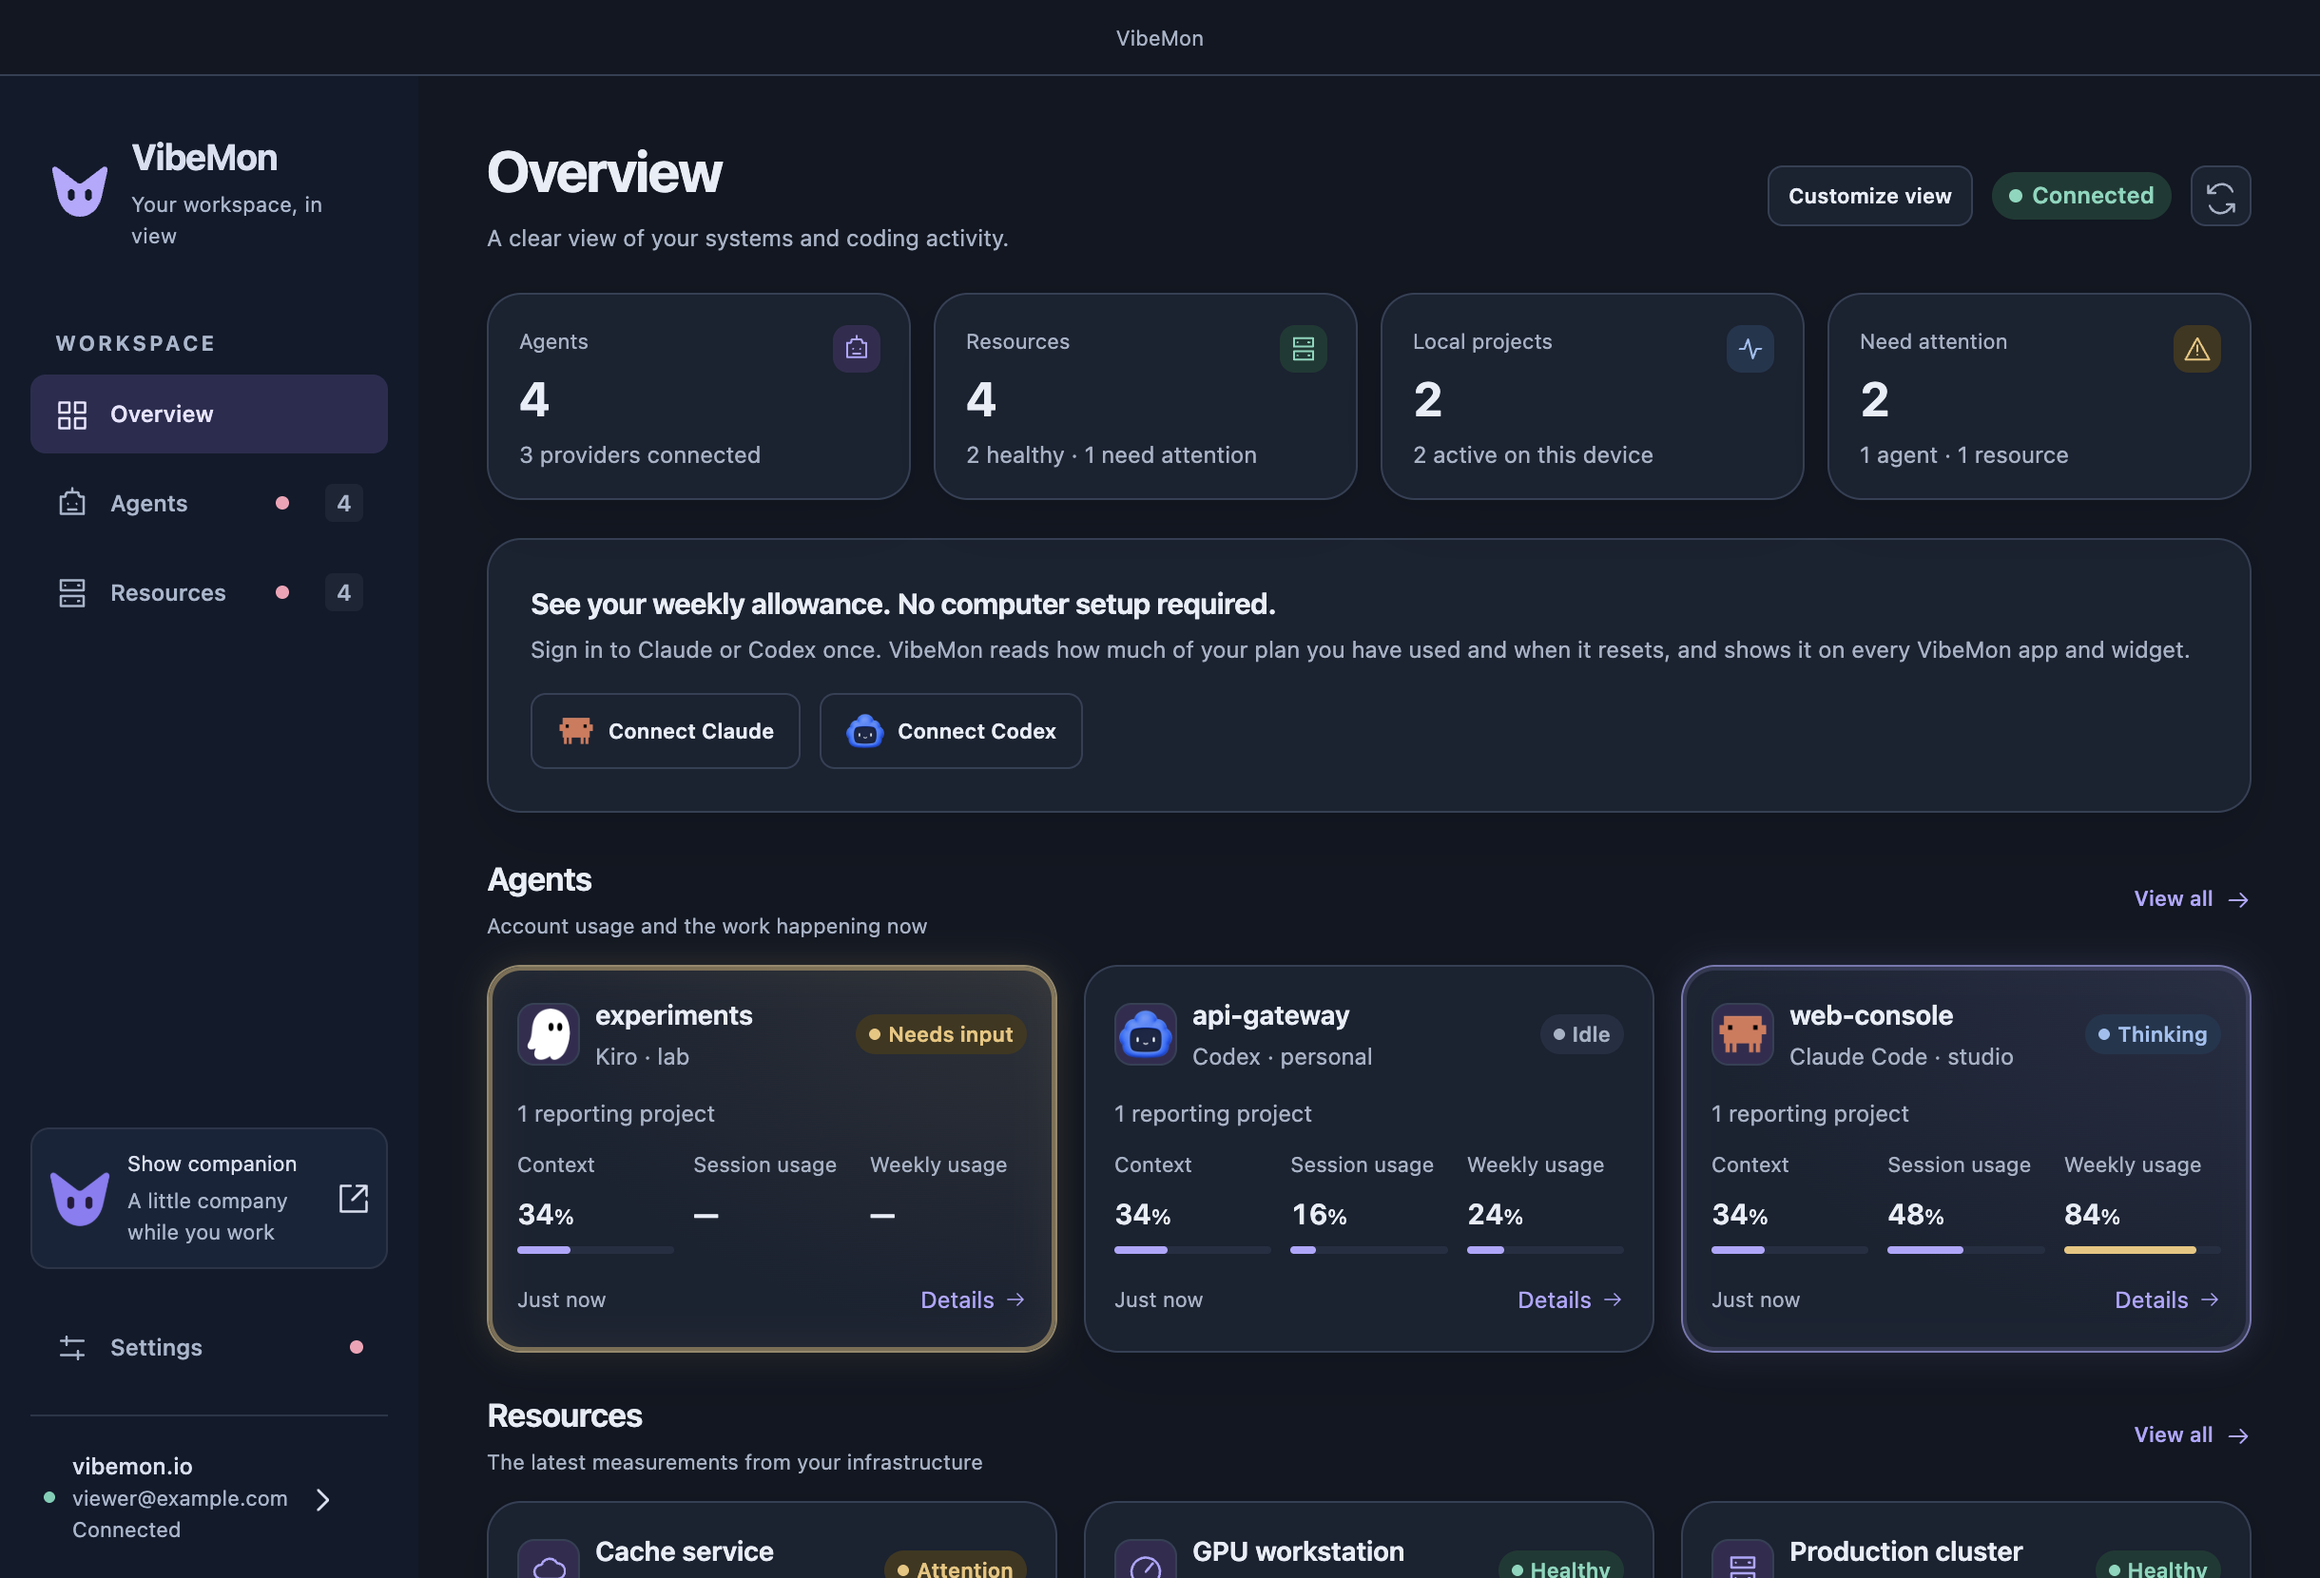
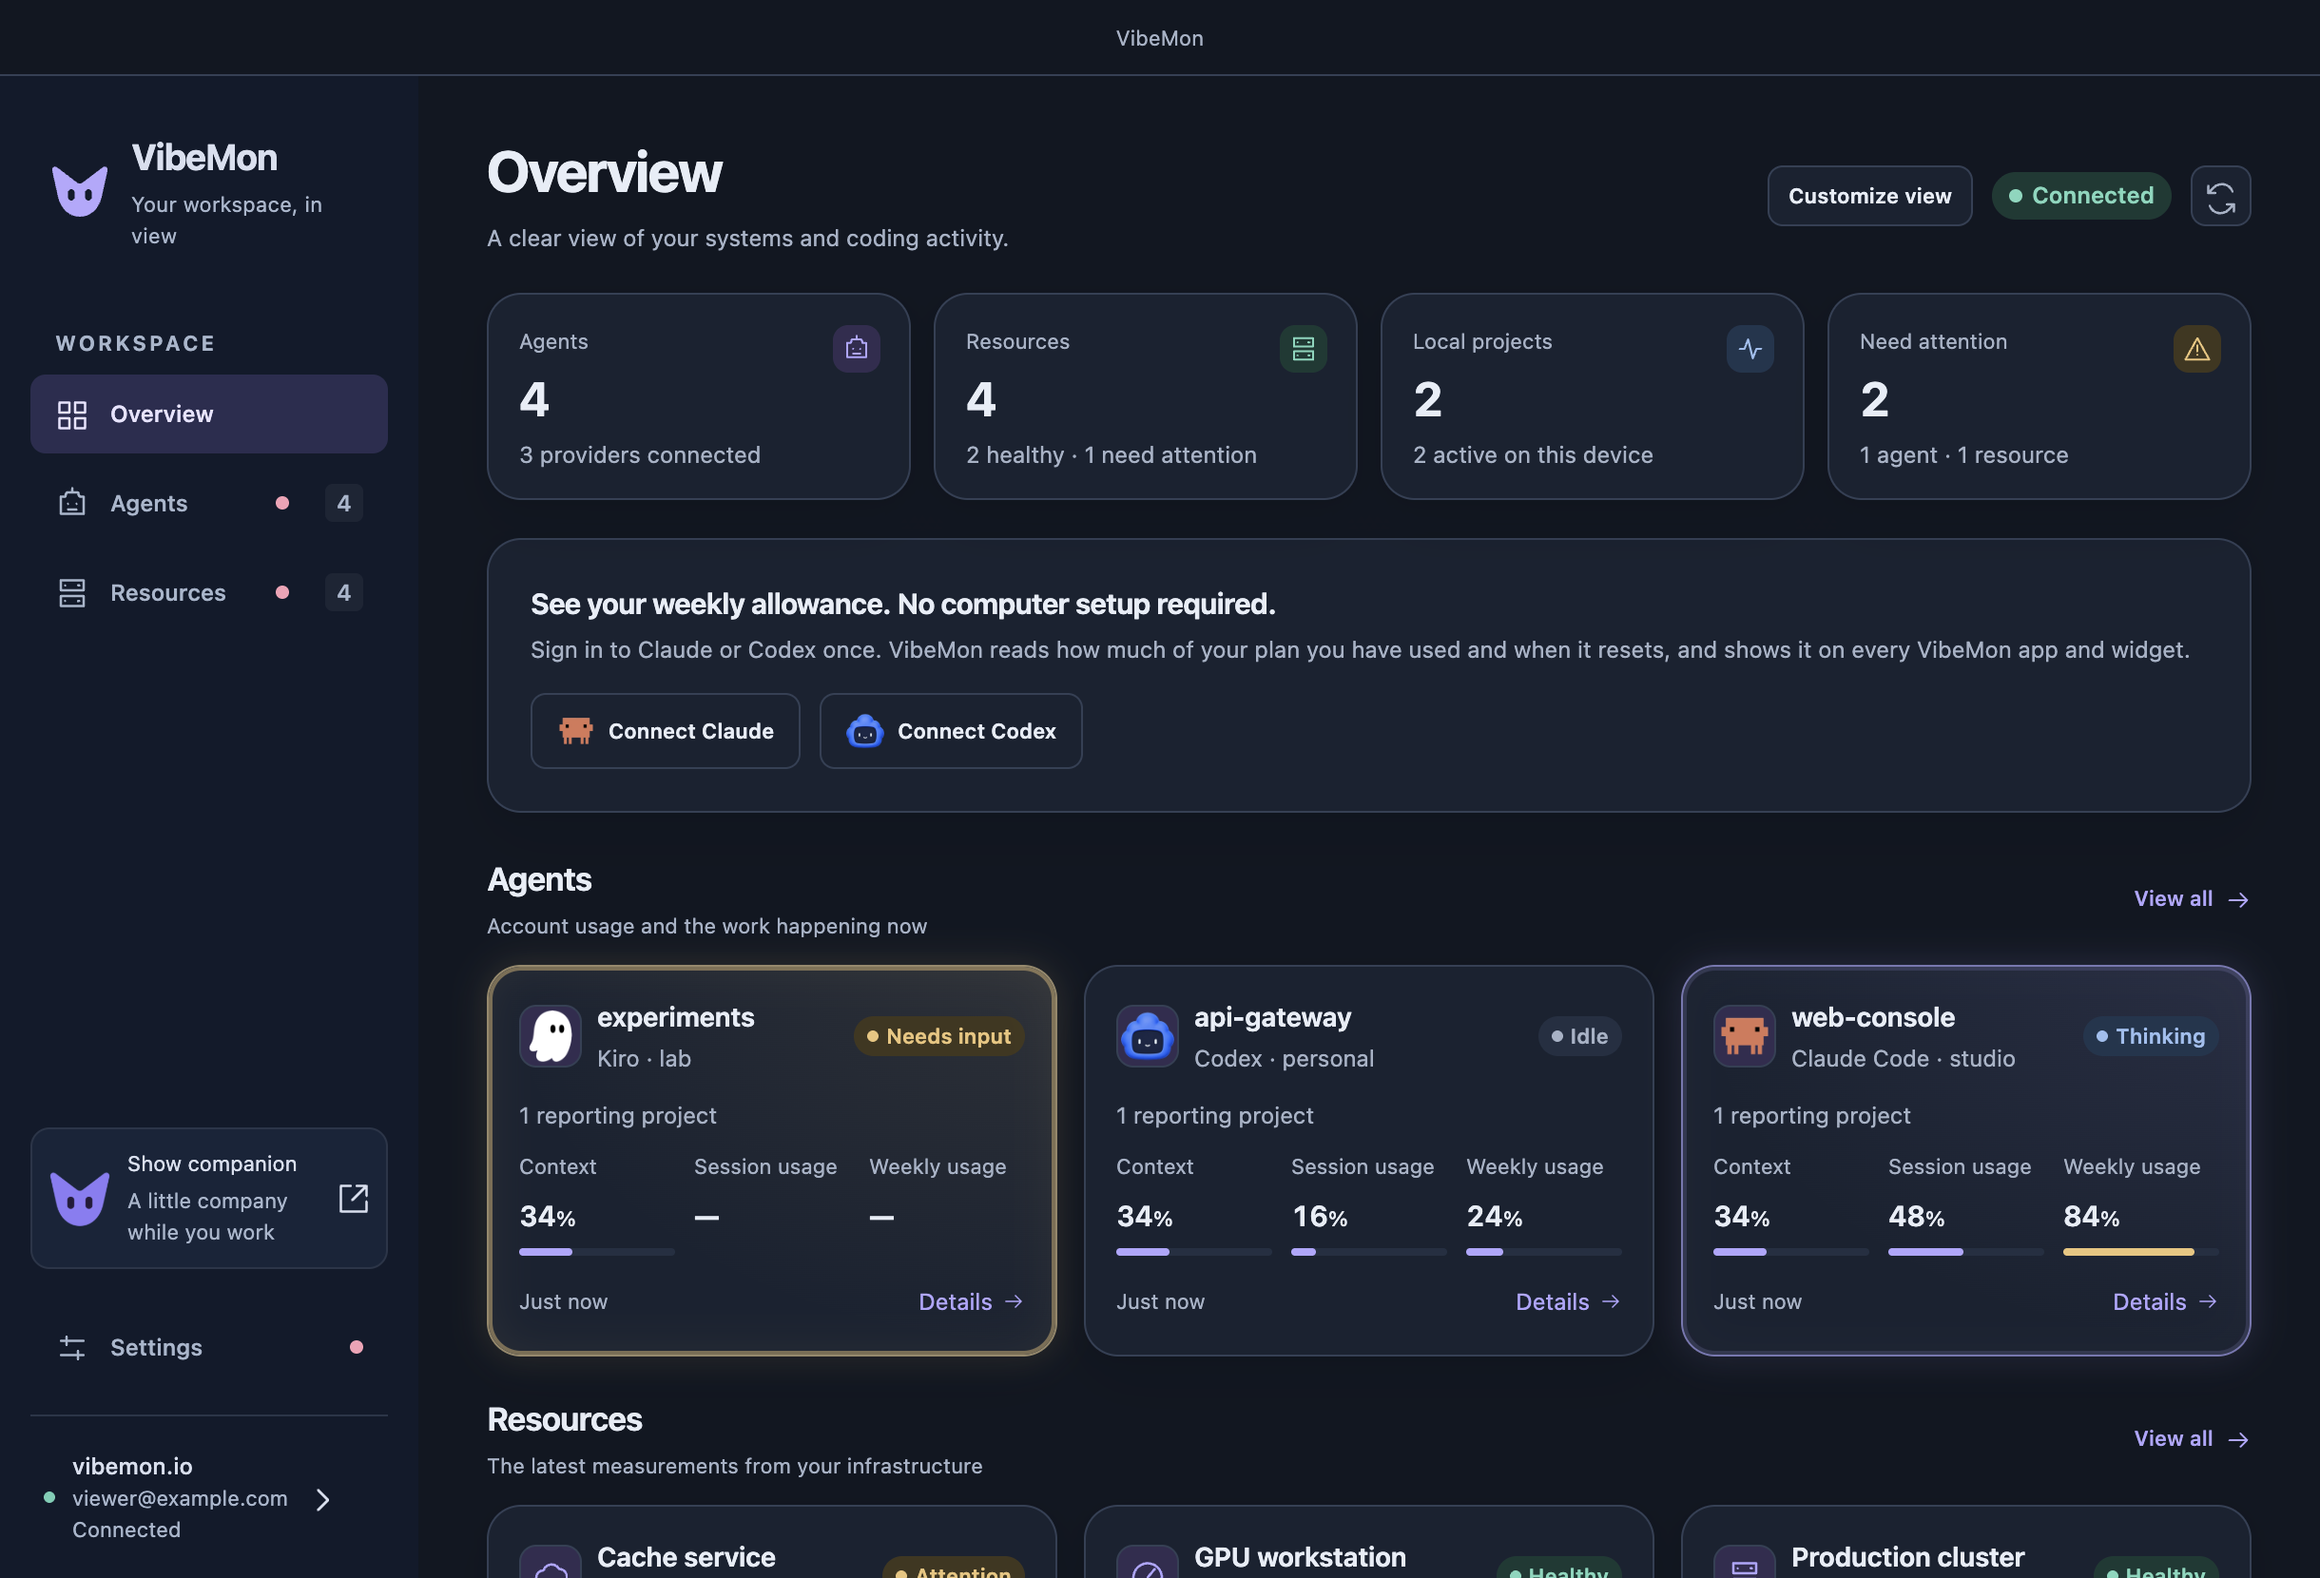
fix: keep responsive cards on shared spacing

diff --git a/src/workspace/style.css b/src/workspace/style.css
@@ -1394,7 +1394,6 @@ dialog::backdrop {
   margin: 20px 0 12px;
 }
 .compact-card {
-  padding: 15px;
   contain-intrinsic-size: auto 170px;
 }
 .compact-card .card-heading {
@@ -1507,9 +1506,6 @@ dialog::backdrop {
   }
   .source-icon > .icon {
     width: 15px;
-  }
-  .card {
-    padding: 17px;
   }
   .settings-intro > .button {
     font-size: 12px;
@@ -1653,9 +1649,6 @@ dialog::backdrop {
   }
   [data-page='overview'] .section-heading {
     margin: 12px 0 9px;
-  }
-  .compact-card {
-    padding: 12px;
   }
   .compact-card .card-heading {
     margin-bottom: 10px;
